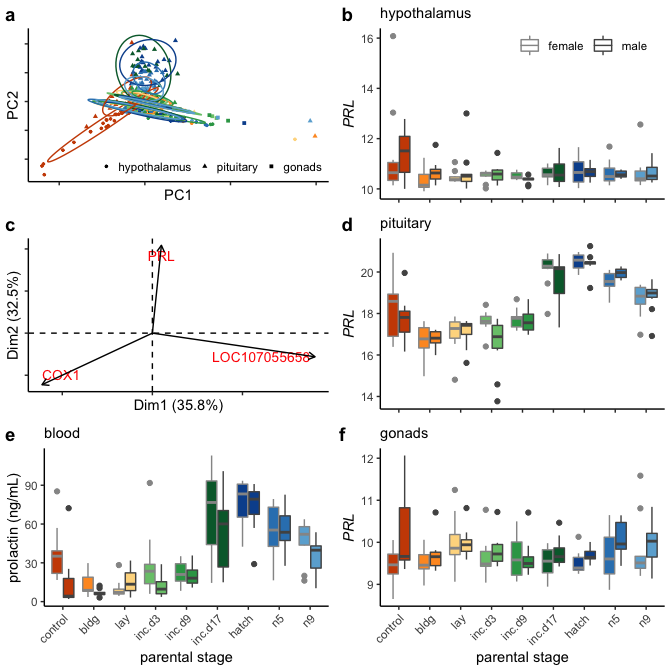
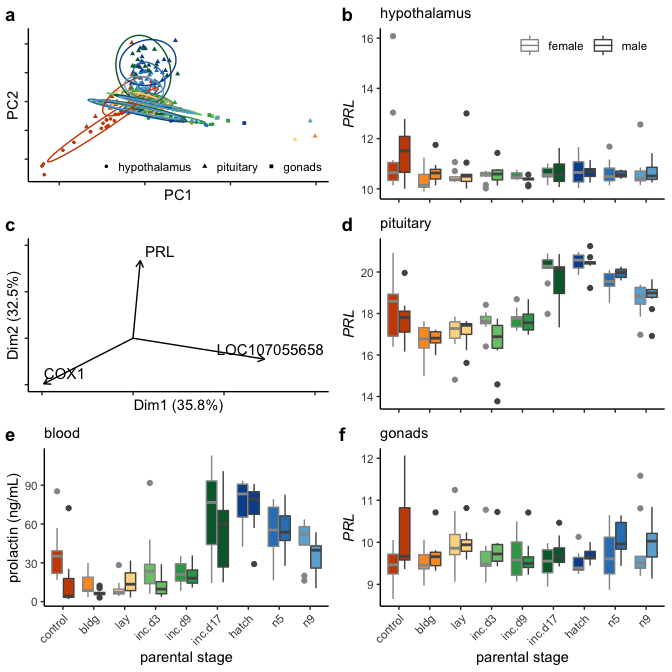
better prl figures

Changed region(s): [[0.1562, 0.3438, 0.5, 0.5625], [0.0625, 0.5312, 0.1562, 0.5938]]

diff --git a/analysis/figure-3.md b/analysis/figure-3.md
@@ -3,14 +3,14 @@ Figure 3
 
     library(tidyverse)
 
-    ## ── Attaching packages ─────────────────────────────────────────────────────── tidyverse 1.3.0 ──
+    ## ── Attaching packages ────────── tidyverse 1.3.0 ──
 
     ## ✓ ggplot2 3.2.1     ✓ purrr   0.3.3
     ## ✓ tibble  2.1.3     ✓ dplyr   0.8.3
     ## ✓ tidyr   1.0.0     ✓ stringr 1.4.0
     ## ✓ readr   1.3.1     ✓ forcats 0.4.0
 
-    ## ── Conflicts ────────────────────────────────────────────────────────── tidyverse_conflicts() ──
+    ## ── Conflicts ───────────── tidyverse_conflicts() ──
     ## x dplyr::filter() masks stats::filter()
     ## x dplyr::lag()    masks stats::lag()
 
@@ -116,7 +116,9 @@ Data: PCA, hormones, PRL expression
             axis.title.y = element_text(face = "italic"),
             legend.title = element_blank()) + guides(fill = F)
 
-    c <- plotfriz(charfviz) + labs(subtitle = "  ")
+    c <- plotfriz(charfviz) + labs(subtitle = "  ") +
+      ylim(-250000,500000) + xlim(-250000,500000) + 
+      theme(axis.text = element_blank())
 
     d <- plotprolactin(PRLpit, PRLpit$counts, "PRL", "pituitary") + 
       theme(legend.position = "none", axis.text.x = element_blank(), axis.title.x = element_blank(),
@@ -172,15 +174,16 @@ Data: PCA, hormones, PRL expression
     PRLvsd3$hiloPRL <- factor(PRLvsd3$hiloPRL, levels = c("lo", "hi"))
 
 
-    b <- ggplot(PRLvsd3, aes(x = hiloPRL, y = counts, fill = sex))  +
+    b <- ggplot(PRLvsd3, aes(x = sex, y = counts, fill = sex, color = hiloPRL))  +
       geom_boxplot() +
-      labs(x = "Prolactin, binned", y = "Prolactin expression")+
+      labs(x = "Prolactin, binned into `lo` and `hi`", y = "Prolactin expression")+
       theme_B3() + theme(legend.position = "none") +
-      scale_fill_manual(values = sexcolors)
+      scale_fill_manual(values = allcolors) +
+      scale_color_manual(values = allcolors)
 
-    plot_grid(a,b, nrow = 1, rel_widths = c(1,1))
+    plot_grid(a,b, nrow = 2, rel_widths = c(1,1))
 
-![](../figures/determinePRLhiglow-1.png)
+![](../figures/determinePRLhiglo-1.png)
 
     PRLvsd3 %>%
       group_by(sex, tissue, hiloPRL) %>%
